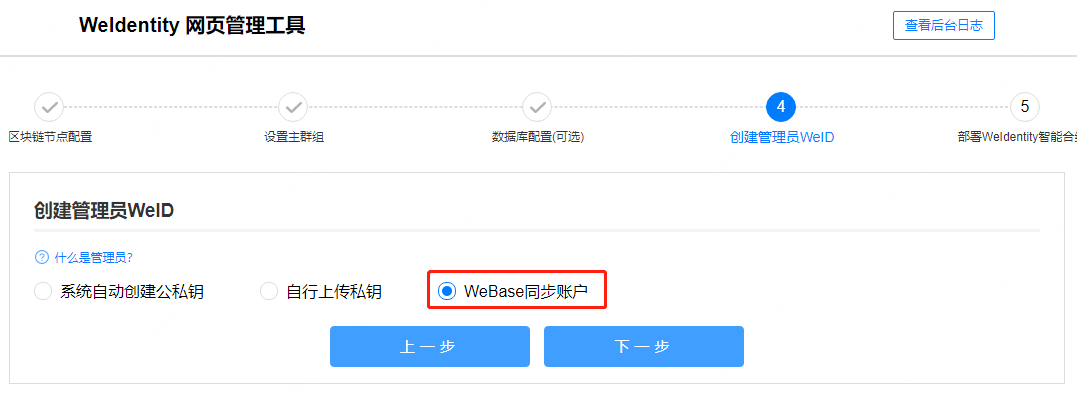
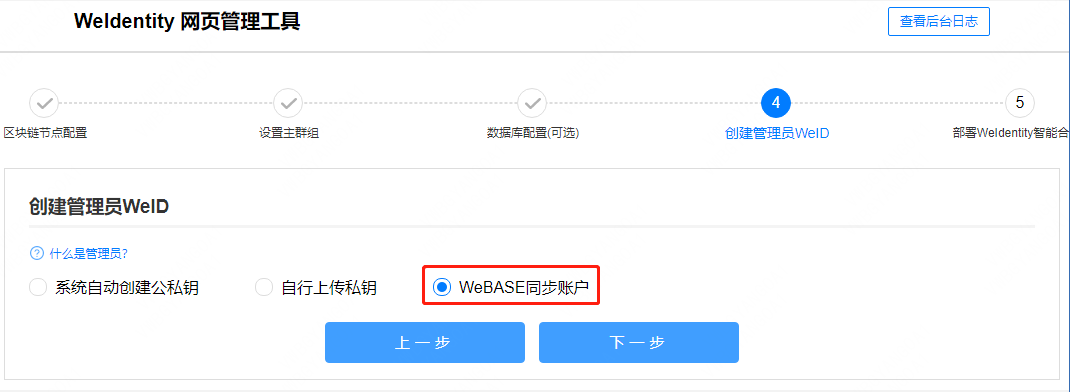
* modity WeBase to WeBASE

diff --git a/readthedocs/zh_CN/docs/deploy-via-web.rst b/readthedocs/zh_CN/docs/deploy-via-web.rst
@@ -22,7 +22,7 @@
 第1步: 选择集成模式
 """""""""""""""""""""""""""
 
-此步骤可选择配置WeIdentity的方式,包括 “WeID原始模式” 和 “WeID + WeBase集成模式”：
+此步骤可选择配置WeIdentity的方式,包括 “WeID原始模式” 和 “WeID + WeBASE集成模式”：
 
 “WeID原始模式”, 如下图所示。
 
@@ -30,16 +30,16 @@
       :alt: weid-build-tools-original-step1.png
 
 
-“WeID + WeBase集成模式”, 如下图所示：
+“WeID + WeBASE集成模式”, 如下图所示：
 
    .. image:: images/weid-build-tools-and-webase-step1.png
       :alt: weid-build-tools-and-webase-step1.png
 
    - 粘贴区
-      * 配置说明：此配置从【WeBase管理台】-【应用管理】中找到对应的应用，通过复制应用的注册信息到粘贴区进行粘贴即可，如果没有部署WeBase管理台，请先\ `「部署WeBase管理台」 <https://webasedoc.readthedocs.io/zh_CN/latest/docs/WeBASE/install.html>`_\。
+      * 配置说明：此配置从【WeBASE管理台】-【应用管理】中找到对应的应用，通过复制应用的注册信息到粘贴区进行粘贴即可，如果没有部署WeBASE管理台，请先\ `「部署WeBASE管理台」 <https://webasedoc.readthedocs.io/zh_CN/latest/docs/WeBASE/install.html>`_\。
 
 .. note::
-       如果WeBase跟WeID非同机部署，请自行修改IP地址为WeBase的后台服务IP地址。
+       如果WeBASE跟WeID非同机部署，请自行修改IP地址为WeBASE的后台服务IP地址。
 
 .. _role-selection:
 
@@ -68,7 +68,7 @@
    .. image:: images/weid-build-tools-original-step3.png
       :alt: weid-build-tools-original-step3.png
 
-“WeID + WeBase集成模式”, 如下图所示：
+“WeID + WeBASE集成模式”, 如下图所示：
 
    .. image:: images/weid-build-tools-and-webase-step3.png
       :alt: weid-build-tools-and-webase-step3.png
@@ -95,8 +95,8 @@
 
 .. note::
      1. 对证书有疑问，可以参看这篇文章： \ `「区块链中的各种证书详解」 <https://fisco-bcos-documentation.readthedocs.io/zh_CN/latest/docs/manual/certificates.html>`_\
-     2. “WeID + WeBase集成模式”下，可通过查询按钮，查询到WeBase中的节点信息进行配置。
-     3. “WeID + WeBase集成模式”下，其证书自动从WeBase中同步。
+     2. “WeID + WeBASE集成模式”下，可通过查询按钮，查询到WeBASE中的节点信息进行配置。
+     3. “WeID + WeBASE集成模式”下，其证书自动从WeBASE中同步。
 
 .. _group-selection:
 
@@ -144,15 +144,15 @@
    .. image:: images/weid-build-tools-original-step6.png
       :alt: weid-build-tools-original-step6.png
 
-“WeID + WeBase集成模式”, 如下图所示：
+“WeID + WeBASE集成模式”, 如下图所示：
 
-   - 此处选择"WeBase同步账户"：在部署工具的安装目录下，有一个目录： `./output/admin/`， 会存放从WeBase同步的私钥文件, 请妥善保管。
+   - 此处选择"WeBASE同步账户"：在部署工具的安装目录下，有一个目录： `./output/admin/`， 会存放从WeBASE同步的私钥文件, 请妥善保管。
 
    .. image:: images/weid-build-tools-and-webase-step6.png
       :alt: weid-build-tools-and-webase-step6.png
 
 .. note::
-     1. “WeID + WeBase集成模式”下，选择前两种创建账户方式，其私钥将同步到WeBase中存储。
+     1. “WeID + WeBASE集成模式”下，选择前两种创建账户方式，其私钥将同步到WeBASE中存储。
 
 .. _weid-deploy:
 
